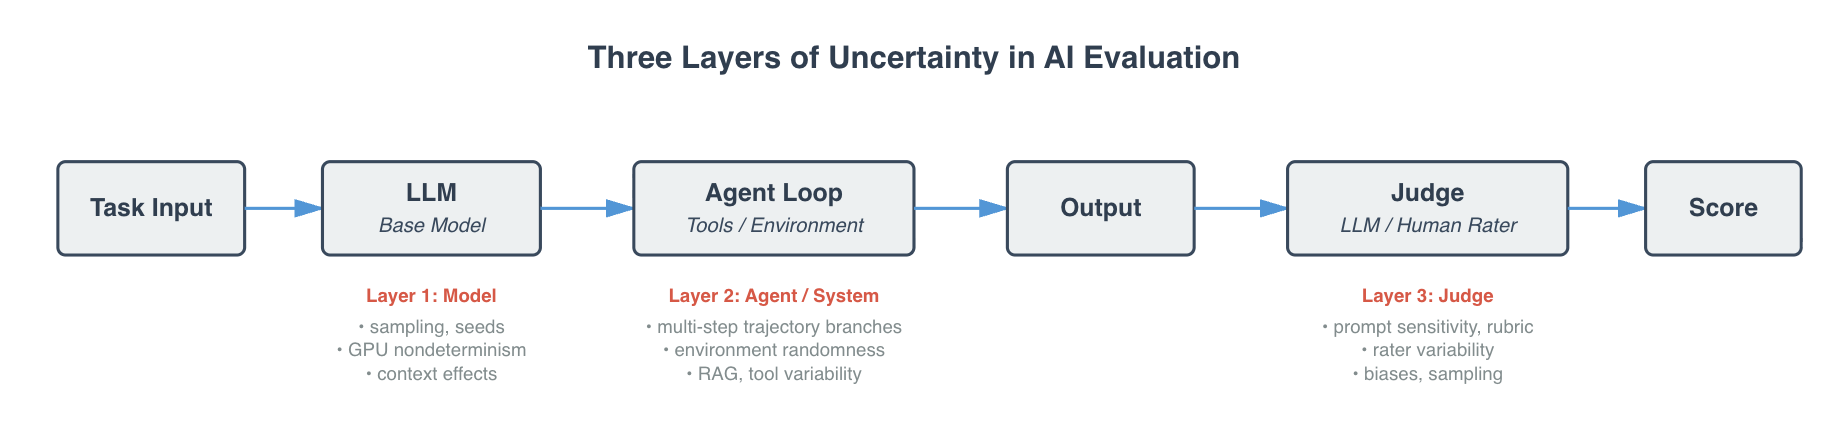
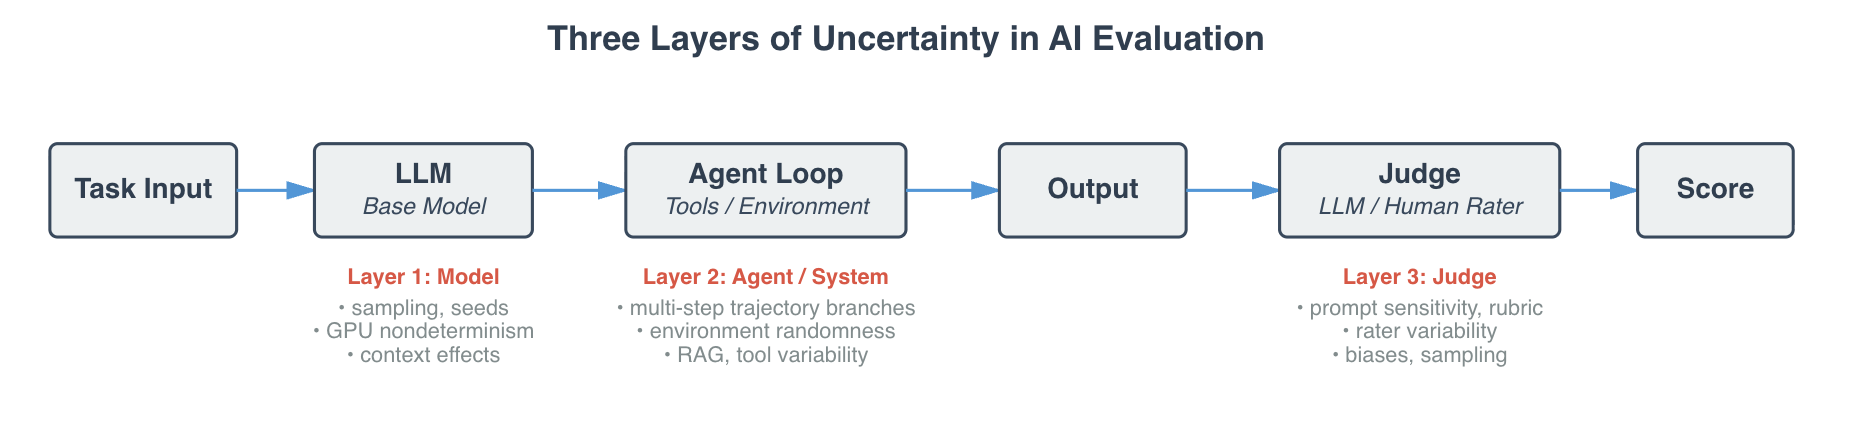
modify images

Changed region(s): [[0.0308, 0.3341, 0.987, 0.8808], [0.2776, 0.0607, 0.6786, 0.1822], [0.7094, 0.6379, 0.8328, 0.8808]]

diff --git a/_posts/2026-04-27-why-ai-evaluations-need-error-bars.md b/_posts/2026-04-27-why-ai-evaluations-need-error-bars.md
@@ -152,7 +152,7 @@ $$
 This yields confidence intervals and lets us test whether differences between models are statistically significant. The core conceptual move is to treat evaluation questions as samples from a larger “super-population” of possible items—essentially, acknowledging that the benchmark is only a finite window into a much larger task space.
 
 <p align="center">
-  <img src="{{ '/assets/img/2026-04-27-why-ai-evaluations-need-error-bars/point-vs-ci.png' | relative_url }}" width="80%">
+  <img src="{{ '/assets/img/2026-04-27-why-ai-evaluations-need-error-bars/point-vs-ci.png' | relative_url }}" width="100%">
 </p>
 <p align="center"><em>Figure 2: Overlapping confidence intervals show ambiguous rankings. 
 Two models that differ by 1 percentage point in accuracy but have overlapping 95% confidence intervals. Without error bars, this looks like a clear ranking; with uncertainty, the “winner” is ambiguous.</em></p>
